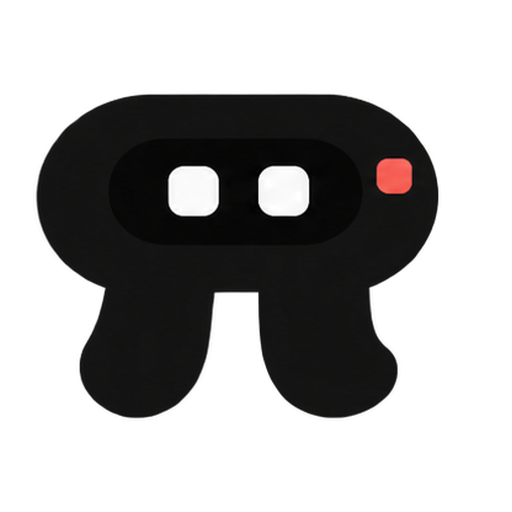
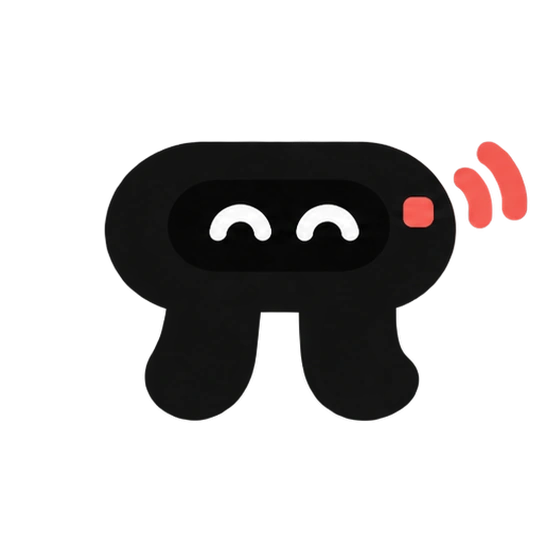
feat: 接入高清品牌资源与悬浮球状态表情

Changed region(s): [[0.0625, 0.1562, 0.9688, 0.8438], [0.3125, 0.3125, 0.6562, 0.4375]]

diff --git a/app/src/main/kotlin/io/github/whywood/superpi/floating/FloatingBubble.kt b/app/src/main/kotlin/io/github/whywood/superpi/floating/FloatingBubble.kt
@@ -1,9 +1,13 @@
 package io.github.whywood.superpi.floating
 
+import androidx.annotation.DrawableRes
+import androidx.compose.animation.Crossfade
 import androidx.compose.animation.core.Animatable
 import androidx.compose.animation.core.LinearEasing
+import androidx.compose.animation.core.snap
 import androidx.compose.animation.core.tween
 import androidx.compose.foundation.Canvas
+import androidx.compose.foundation.Image
 import androidx.compose.foundation.background
 import androidx.compose.foundation.layout.Box
 import androidx.compose.foundation.layout.fillMaxSize
@@ -23,16 +27,16 @@ import androidx.compose.ui.graphics.Brush
 import androidx.compose.ui.graphics.Color
 import androidx.compose.ui.graphics.StrokeCap
 import androidx.compose.ui.graphics.drawscope.Stroke
+import androidx.compose.ui.layout.ContentScale
 import androidx.compose.ui.platform.testTag
+import androidx.compose.ui.res.painterResource
 import androidx.compose.ui.res.stringResource
 import androidx.compose.ui.semantics.contentDescription
 import androidx.compose.ui.semantics.semantics
 import androidx.compose.ui.unit.dp
-import androidx.compose.ui.unit.sp
 import io.github.whywood.superpi.R
 import io.github.whywood.superpi.design.DdType
-import io.github.whywood.superpi.design.DdWordmark
-import io.github.whywood.superpi.design.SuperPIColors
+import io.github.whywood.superpi.design.LocalDdMotionEnabled
 import io.github.whywood.superpi.design.superPiColors
 
 internal enum class FloatingBubbleRing {
@@ -68,18 +72,22 @@ internal fun FloatingBubble(
                 .size(FloatingBubbleSize)
                 .floatingLift(CircleShape, colors)
                 .clip(CircleShape)
-                .background(colors.surface.copy(alpha = 0.94f)),
+                .background(Color.White),
         )
-        Box(
-            Modifier
-                .size(FloatingBubbleSize - 4.dp)
+        val motionEnabled = LocalDdMotionEnabled.current
+        Crossfade(
+            targetState = mood,
+            modifier = Modifier
+                .size(FloatingBubbleSize - 2.dp)
                 .offset(y = 1.dp),
-            contentAlignment = Alignment.Center,
-        ) {
-            DdWordmark(
-                color = mood.tint(colors),
-                dotColor = colors.accent,
-                style = DdType.wordmark.copy(fontSize = 13.sp, lineHeight = 15.sp),
+            animationSpec = if (motionEnabled) tween(160) else snap(),
+            label = "floating-bubble-mood",
+        ) { currentMood ->
+            Image(
+                painter = painterResource(currentMood.drawable()),
+                contentDescription = null,
+                modifier = Modifier.fillMaxSize(),
+                contentScale = ContentScale.Fit,
             )
         }
         if (pending > 0) {
@@ -90,13 +98,13 @@ internal fun FloatingBubble(
                     .size(20.dp)
                     .floatingLift(CircleShape, colors)
                     .clip(CircleShape)
-                    .background(colors.accent),
+                    .background(Color(0xFF18181B)),
                 contentAlignment = Alignment.Center,
             ) {
                 Text(
                     text = if (pending > 99) "99+" else pending.toString(),
                     style = DdType.numeric,
-                    color = colors.onAccent,
+                    color = Color.White,
                     maxLines = 1,
                 )
             }
@@ -150,11 +158,12 @@ private fun FloatingLongPressRing(ring: FloatingBubbleRing) {
     }
 }
 
-internal fun FloatingBubbleMood.tint(colors: SuperPIColors): Color = when (this) {
-    FloatingBubbleMood.IDLE -> colors.ink
-    FloatingBubbleMood.THINKING -> colors.inkSecondary
-    FloatingBubbleMood.SLEEPY -> colors.inkTertiary
-    FloatingBubbleMood.WAITING -> colors.warning
-    FloatingBubbleMood.DONE -> colors.success
-    FloatingBubbleMood.ALERT -> colors.danger
+@DrawableRes
+internal fun FloatingBubbleMood.drawable(): Int = when (this) {
+    FloatingBubbleMood.IDLE -> R.drawable.v2_wave
+    FloatingBubbleMood.THINKING -> R.drawable.v2_thinking
+    FloatingBubbleMood.SLEEPY -> R.drawable.v2_waiting
+    FloatingBubbleMood.WAITING -> R.drawable.v2_confused
+    FloatingBubbleMood.DONE -> R.drawable.v2_done
+    FloatingBubbleMood.ALERT -> R.drawable.v2_alert
 }

diff --git a/app/src/main/kotlin/io/github/whywood/superpi/ui/onboarding/OnboardingSteps.kt b/app/src/main/kotlin/io/github/whywood/superpi/ui/onboarding/OnboardingSteps.kt
@@ -16,8 +16,6 @@ import androidx.compose.animation.core.infiniteRepeatable
 import androidx.compose.animation.core.rememberInfiniteTransition
 import androidx.compose.animation.core.tween
 import androidx.compose.foundation.Canvas
-import android.graphics.ImageDecoder
-import android.widget.ImageView
 import androidx.compose.foundation.Image
 import androidx.compose.foundation.background
 import androidx.compose.foundation.border
@@ -56,6 +54,7 @@ import androidx.compose.ui.graphics.graphicsLayer
 import androidx.compose.ui.layout.ContentScale
 import androidx.compose.ui.platform.LocalContext
 import androidx.compose.ui.platform.testTag
+import androidx.compose.ui.res.painterResource
 import androidx.compose.ui.res.stringResource
 import androidx.compose.ui.semantics.selected
 import androidx.compose.ui.semantics.semantics
@@ -64,7 +63,6 @@ import androidx.compose.ui.text.input.KeyboardType
 import androidx.compose.ui.text.input.PasswordVisualTransformation
 import androidx.compose.ui.text.input.VisualTransformation
 import androidx.compose.ui.unit.dp
-import androidx.compose.ui.viewinterop.AndroidView
 import androidx.compose.ui.unit.sp
 import androidx.core.content.ContextCompat
 import androidx.core.net.toUri
@@ -161,17 +159,11 @@ internal fun WelcomeStep(modifier: Modifier = Modifier) {
                     .background(Color.White),
                 contentAlignment = Alignment.Center,
             ) {
-                AndroidView(
-                    modifier = Modifier.size(markSize * 0.72f),
-                    factory = { context ->
-                        ImageView(context).apply {
-                            scaleType = ImageView.ScaleType.FIT_CENTER
-                            val source = ImageDecoder.createSource(context.resources, R.drawable.pi_welcome)
-                            val drawable = ImageDecoder.decodeDrawable(source)
-                            setImageDrawable(drawable)
-                            if (drawable is android.graphics.drawable.AnimatedImageDrawable) drawable.start()
-                        }
-                    },
+                Image(
+                    painter = painterResource(R.drawable.mascot_wave),
+                    contentDescription = null,
+                    modifier = Modifier.size(markSize * 0.86f),
+                    contentScale = ContentScale.Fit,
                 )
             }
         }

diff --git a/app/src/test/kotlin/io/github/whywood/superpi/floating/FloatingBubbleMoodArtTest.kt b/app/src/test/kotlin/io/github/whywood/superpi/floating/FloatingBubbleMoodArtTest.kt
@@ -1,0 +1,17 @@
+package io.github.whywood.superpi.floating
+
+import io.github.whywood.superpi.R
+import org.junit.Assert.assertEquals
+import org.junit.Test
+
+class FloatingBubbleMoodArtTest {
+    @Test
+    fun everyMoodMapsToItsArtwork() {
+        assertEquals(R.drawable.v2_wave, FloatingBubbleMood.IDLE.drawable())
+        assertEquals(R.drawable.v2_thinking, FloatingBubbleMood.THINKING.drawable())
+        assertEquals(R.drawable.v2_waiting, FloatingBubbleMood.SLEEPY.drawable())
+        assertEquals(R.drawable.v2_confused, FloatingBubbleMood.WAITING.drawable())
+        assertEquals(R.drawable.v2_done, FloatingBubbleMood.DONE.drawable())
+        assertEquals(R.drawable.v2_alert, FloatingBubbleMood.ALERT.drawable())
+    }
+}

diff --git a/app/src/main/kotlin/io/github/whywood/superpi/ui/chat/ChatScreen.kt b/app/src/main/kotlin/io/github/whywood/superpi/ui/chat/ChatScreen.kt
@@ -868,7 +868,7 @@ private fun EmptyState(
                             contentAlignment = Alignment.Center,
                         ) {
                             Image(
-                                painter = painterResource(R.drawable.pi_mascot),
+                                painter = painterResource(R.drawable.v2_wave),
                                 contentDescription = null,
                                 modifier = Modifier.size(112.dp),
                                 contentScale = ContentScale.Fit,
